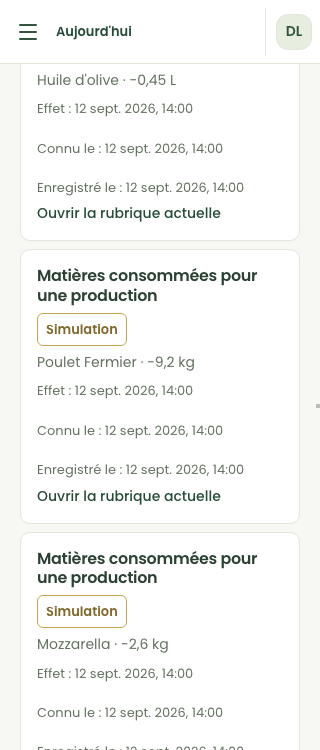
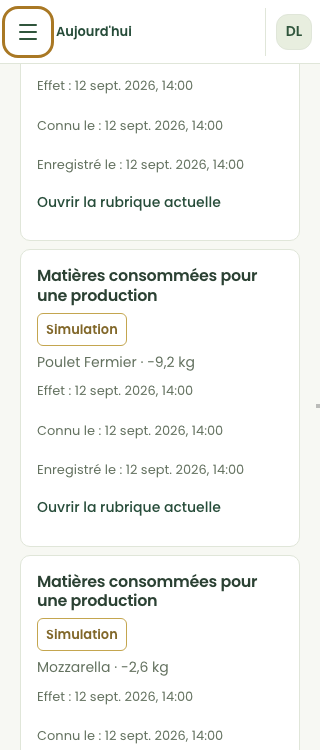
fix(ui): enlarge timeline touch targets

diff --git a/src/pages/Timeline.css b/src/pages/Timeline.css
@@ -24,5 +24,9 @@
 .timeline-event .timeline-qualifier { color: var(--color-text-primary); }
 .timeline-event a { align-self: flex-start; color: var(--color-primary); font-size: var(--font-size-sm); font-weight: var(--font-weight-medium); text-underline-offset: var(--size-3); }
 .timeline-read-only { padding-top: var(--spacing-sm); border-top: var(--size-1) solid var(--color-border); }
-@media (--media-workspace-compact) { .timeline-controls { grid-template-columns: repeat(var(--number-2), minmax(var(--number-0), var(--unit-1fr))); } .timeline-controls p { grid-column: var(--number-1) / var(--number-negative-1); } }
+@media (--media-workspace-compact) {
+  .timeline-controls { grid-template-columns: repeat(var(--number-2), minmax(var(--number-0), var(--unit-1fr))); }
+  .timeline-controls p { grid-column: var(--number-1) / var(--number-negative-1); }
+  .timeline-event a { display: inline-flex; align-items: center; min-height: var(--size-44); }
+}
 @media (--media-compact) { .timeline-controls { grid-template-columns: var(--unit-1fr); } .timeline-controls p { grid-column: auto; } .timeline-event { padding: var(--spacing-md); } }
